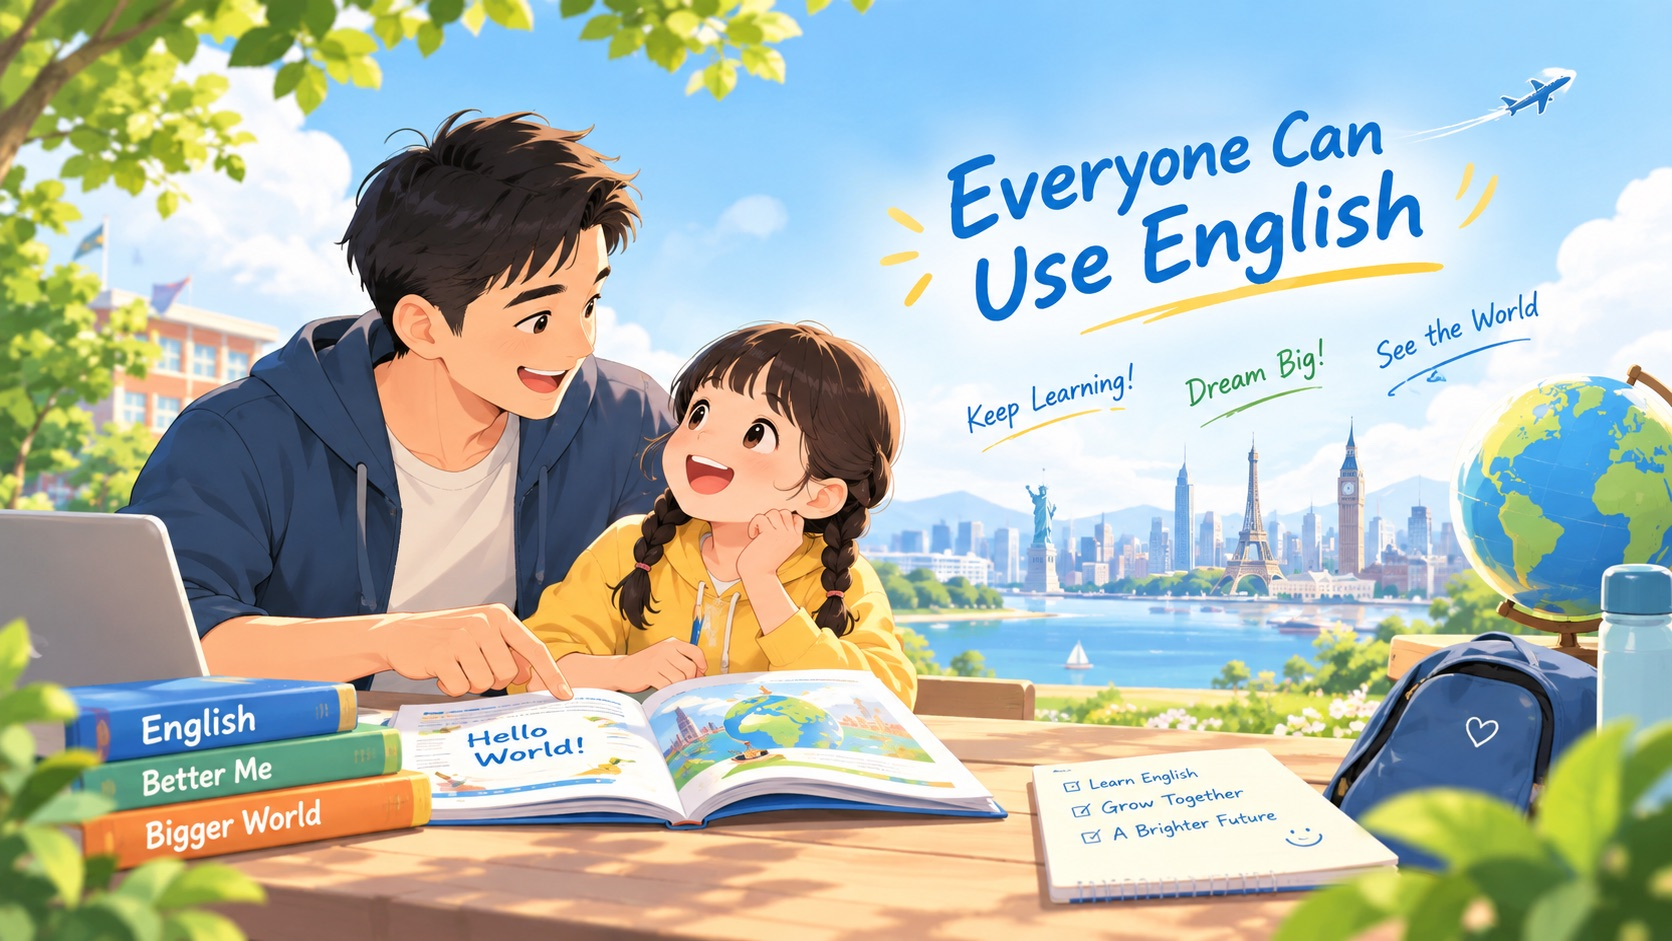
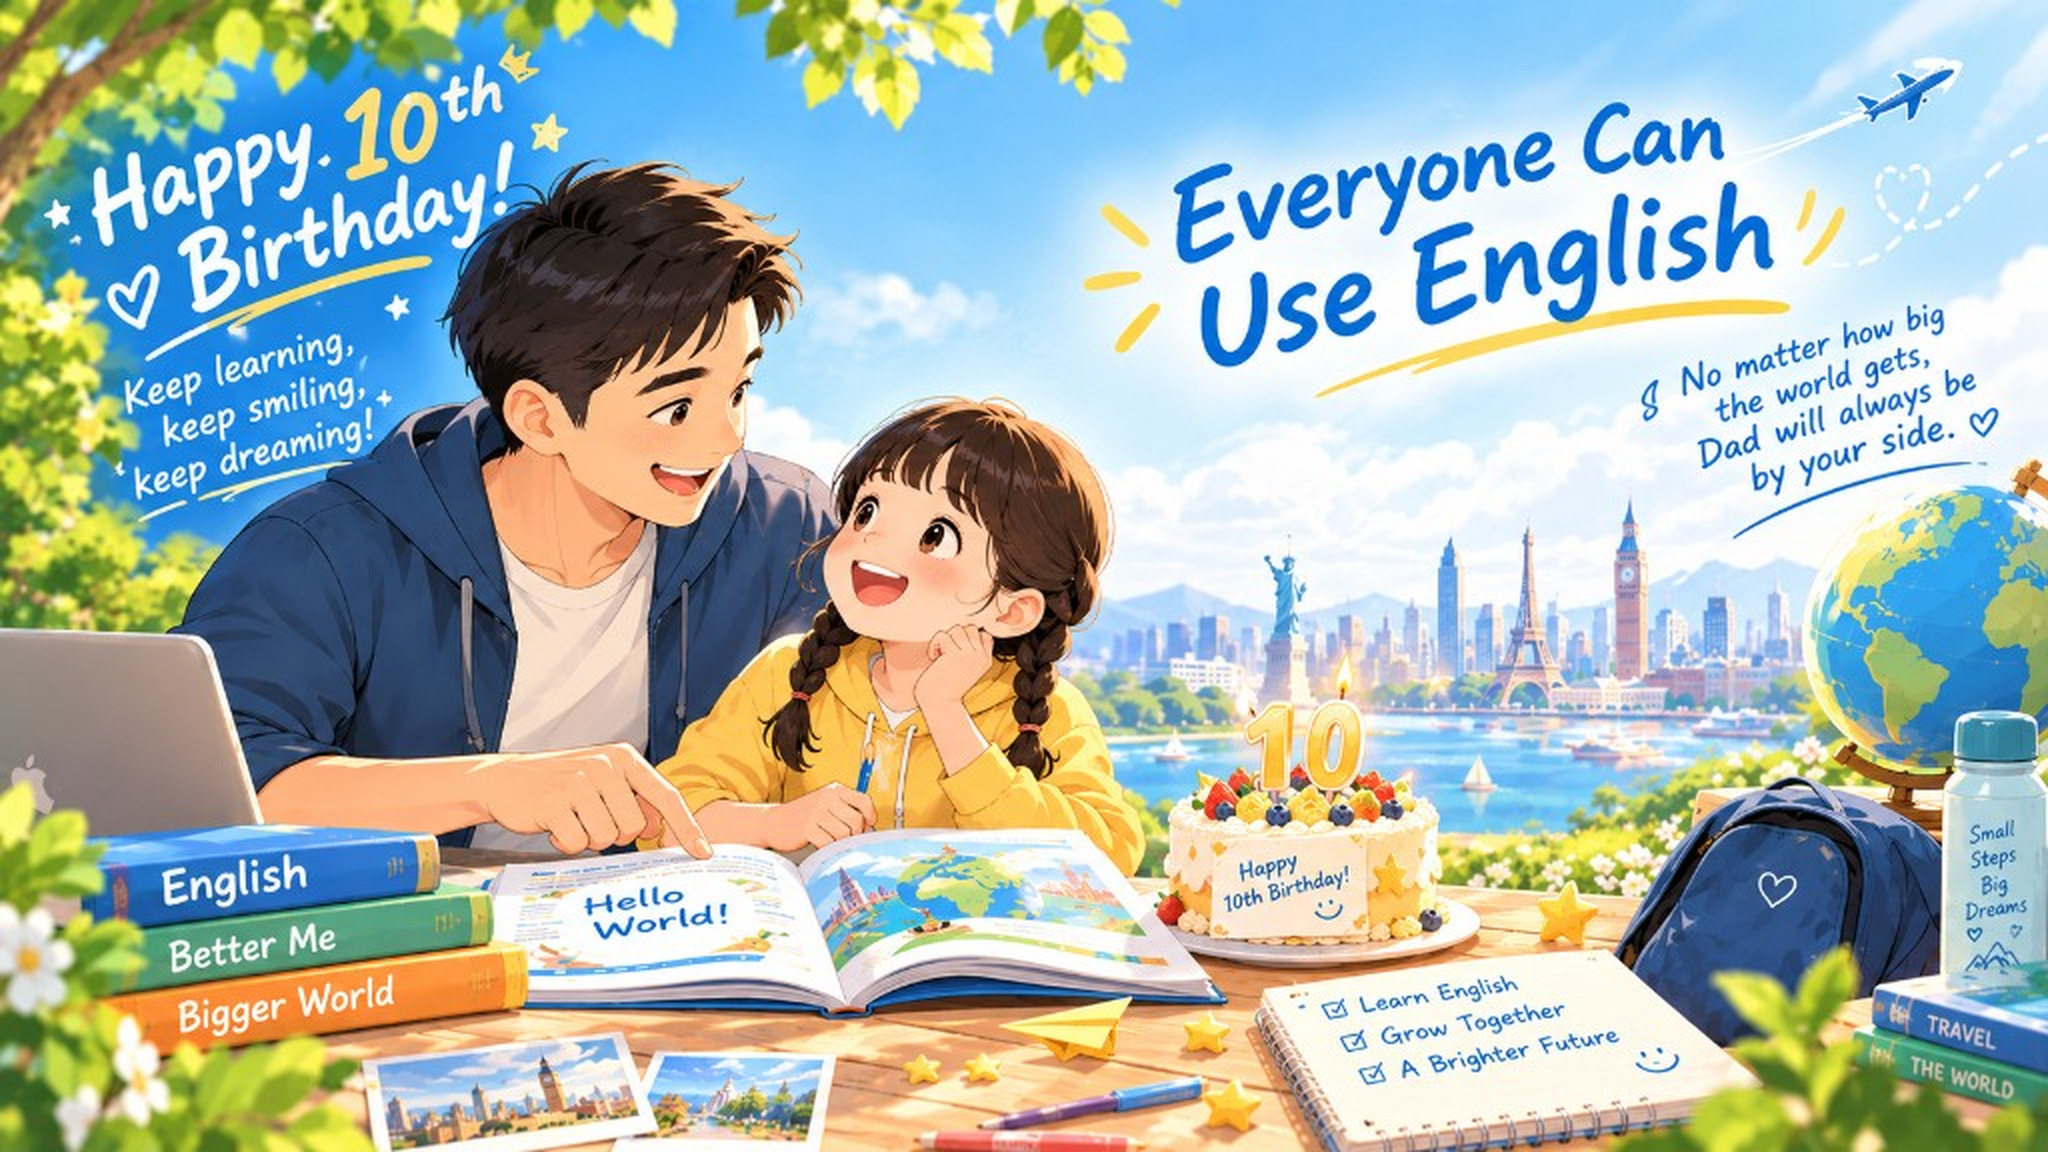
Update home page hero image and refine CSS styles
- Changed the alt text of the home hero image for clarity.
- Updated CSS to adjust the aspect ratio and improve image display properties, ensuring better responsiveness.
- Added a new statistics entry to the notes section, summarizing contributions and notes as of October 23, 2026.

diff --git a/learning-notes/stylesheets/home.css b/learning-notes/stylesheets/home.css
@@ -4,8 +4,8 @@
   border-radius: 1rem;
   overflow: hidden;
   box-shadow: var(--md-shadow-z2);
-  aspect-ratio: 1672 / 941;
   background: #cfe6fb;
+  line-height: 0;
 }
 
 .md-typeset .home-hero p {
@@ -15,8 +15,7 @@
 .md-typeset .home-hero__img {
   display: block;
   width: 100%;
-  height: 100%;
-  object-fit: cover;
+  height: auto;
 }
 
 .md-typeset h1.home-title {

diff --git a/learning-notes/index.md b/learning-notes/index.md
@@ -8,7 +8,7 @@ hide:
 
 <div class="home-hero" markdown>
 
-![Everyone Can Use English — 亲子一起学英语](assets/images/home-hero.jpg){ .home-hero__img .no-glightbox loading="eager" }
+![Everyone Can Use English](assets/images/home-hero.jpg){ .home-hero__img .no-glightbox loading="eager" }
 
 </div>
 
@@ -149,3 +149,4 @@ hide:
 
 - 部分 Obsidian 语法在网页中可能与桌面端不一致；以仓库内 Markdown 为准。
 - 新增笔记：按内容放入对应分区；`tv-series/**/transcript/**` 与歌曲主题下单曲默认不进侧栏（见 `mkdocs.yml` 的 `not_in_nav`）。
+- 统计（截至 2026-10-23）：阿泽自 2026-04-05 起 **297** 次提交、**82** 个活跃日；笔记约 **706** 篇（亲子英语 **104**）。更早提交来自上游开源历史。
